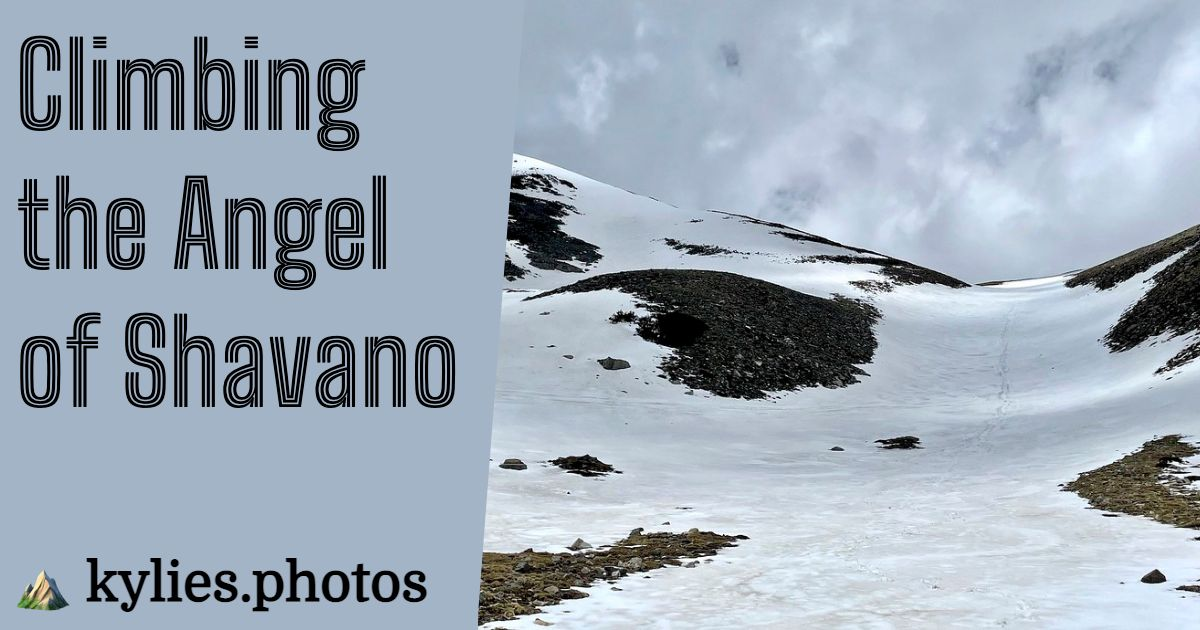
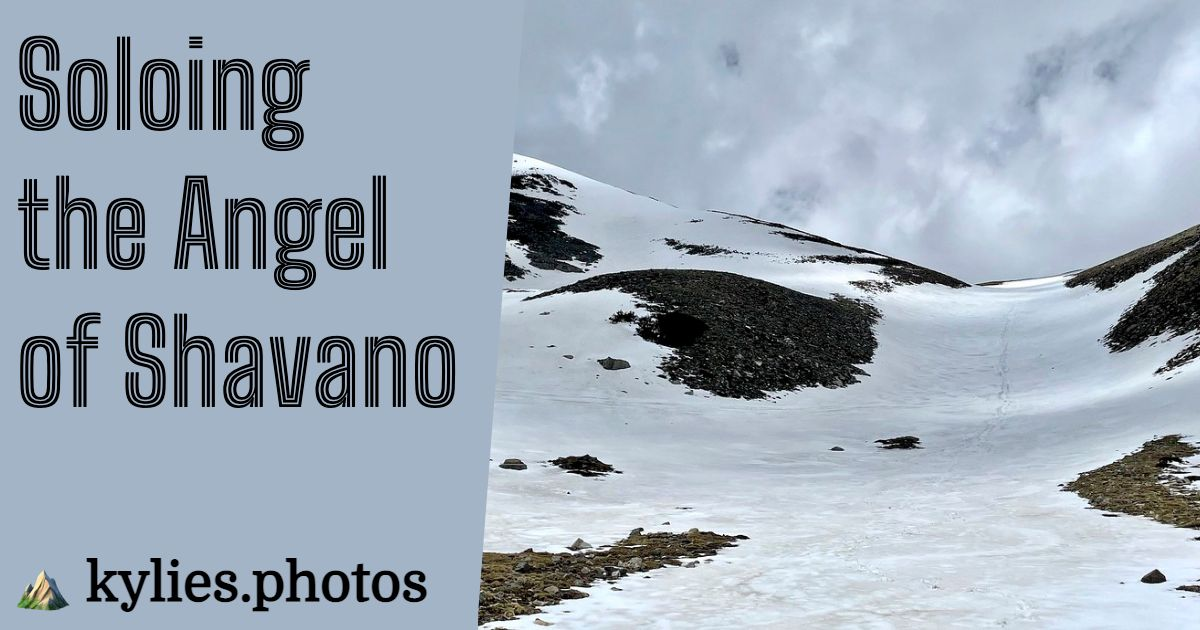
Clean up content, remove extra og-image

Changed region(s): [[0.0, 0.0603, 0.3083, 0.2413]]

diff --git a/blog/hike/solo-angel-of-shavano.md b/blog/hike/solo-angel-of-shavano.md
@@ -1,118 +1,118 @@
 ---
-title: 'Climbing the Angel of Shavano'
+title: 'Soloing the Angel of Shavano'
 date: '2022-03-09'
 previewImgUrl: 'https://live.staticflickr.com/65535/51861127645_76fa1631a8_b.jpg'
 bgColor: '#a4b4c7'
 textColor: '#000000'
 ---
 
-Spring is a notoriously transitional time, and this is especially true in Colorado. With spring comes slightly more stable snowpack and prime couloir climbing time. "Couloir" is a term of French origin that refers to the deep and steep gullies that cut up a mountain, and plenty of these lines exist on some of the most beautiful mountains in the state.
+Spring is know for being a transitional season, and this is especially true in Colorado. With spring comes a mud-riddled shoulder season, but slightly more stable snowpack and prime couloir climbing time. "Couloir" is a term of French origin that refers to the deep and steep gullies that cut up a mountain, and plenty of these lines exist on some of the most beautiful mountains in our state.
 
-While avalanche danger isn't negligible in the spring, it is significantly decreased as snow no longer accumulates on top of the cold, hard early season snow and the prolonged sun exposure stabilizes snow fields, making them less likely to slide.
+While avalanche danger isn't negligible in the spring, it is significantly decreased as snow no longer accumulates on top of the cold and hard early season snow. Additionally, the prolonged sun exposure stabilizes snow fields, making them less likely to slide.
 
-When done right, a couloir can essentially be an icy staircase for one to kick-step your way to a summit. In less stable conditions, however, the icy staircase is less reliable. This is why it's important to know _how_ to climb in addition to knowing when. Solid knowledge is a critical part of any snow activity, and this is true in couloir climbing as well. To learn more about the techniques involved, I would recommend first reading ['Mountaineering: Freedom of the Hills'](https://www.rei.com/product/128238/mountaineers-books-mountaineering-freedom-of-the-hills-9th-edition?sku=1282380001) (considered the benchmark publication for anyone looking to learn or improve their mountaineering skill technique), and then taking an in-person class with [Colorado Mountain Club](https://cmc.org/Classes/CMCClassesandSchools/TechnicalClimbingSchool.aspx).
+When done right, a couloir can be used as an icy staircase for one to use to kick-step their way to a summit. In less stable conditions, however, the icy staircase is less reliable. This is why it's important to know _how_ to climb in addition to knowing when. Solid knowledge is a critical part of any snow activity, and this is true in couloir climbing as well. To learn more about the techniques involved, I would recommend first reading ['Mountaineering: Freedom of the Hills'](https://www.rei.com/product/128238/mountaineers-books-mountaineering-freedom-of-the-hills-9th-edition?sku=1282380001) (considered the benchmark publication for anyone looking to learn or improve their mountaineering skill technique), and then taking an in-person class with [Colorado Mountain Club](https://cmc.org/Classes/CMCClassesandSchools/TechnicalClimbingSchool.aspx).
 
-While this trip report is less of a how-to on couloir climbing, I will give some advice for anyone looking to do their first couloir climb:
+While this trip report is not meant to be an introduction to couloir climbing techniques, I will give some advice for anyone looking to pursue their first couloir:
 
-1. **Start early.** Earlier than you think you need to. Conditions only deteriorate as the sun starts to hit the couloir, ideally you want to be off of your peak before noon. Early morning snow tends to be firm and consistent, but mid-morning and afternoon snow is a different, slushy story. In late spring, I've had my entire snowshoe frozen solid into a slosh of wet snow. Much like quicksand, spring snow can turn into concrete underneath the upper layers. Things can get scary quick.
-2. Learn how to self-arrest, and then **perfect your technique.** Don't stop practicing. Keeping your axe out on any uneven terrain can help you get more comfortable with the casual cane carry, and you'll always be ready to self arrest even in low-level territory.
-3. **Get comfortable with your gear.** This should be considered part of learning and perfecting the art of self-arresting; being comfortable with your snow gear is a big part of effective climbing technique. If you are spending time fumbling over your crampons or haven't figured out the best place to stash your axe so it's handy when needed, you'll find the climb a lot less enjoyable. Precious time can be eaten looking around for a specific snow tool, and you won't have time to make choices in an emergency. Having your beacon, shovel, probe, axe, helmet, and crampons all well positioned is key to a successful snow climb on any mountain.
+1. **Start early.** Earlier than you think you need to. Conditions begin to deteriorate as the sun starts to hit the couloir, so ideally you want to be off of your peak before high noon. Early morning snow tends to be firm and consistent, but mid-morning and afternoon snow is a different, slushy story. I've had my entire snowshoe frozen solid into a slosh of wet snow in April. Much like quicksand, spring snow can turn into concrete once you drop beneath the upper layers. Things can get scary quick.
+2. **Learn how to self-arrest** and then **perfect your technique.** Don't stop practicing. Keeping your axe out on any uneven terrain can help you get more comfortable with the casual cane carry. If you start doing this regularly, even on extremely low-angle slopes, you'll develop more confidence in your abilities. Confidence is key when it comes to stopping yourself from sliding down an icy slope: you want to be sure you could stop yourself in any circumstance.
+3. **Get comfortable with your gear.** This should be considered part of learning and perfecting the art of self-arresting; being comfortable with your snow gear is a big part of effective climbing technique. If you are spending time fumbling to find your crampons or haven't figured out the best place to stash your axe so it's handy when needed, you'll find the climb a lot less enjoyable overall. Precious time can be eaten looking around for a specific snow tool, and you won't have time to spare in an emergency. Having your beacon, shovel, probe, axe, helmet, and crampons all well positioned is essential to a successful ascent.
 
 ## Choosing my Route
 
-In May of 2021, I set out to pursue a low-level couloir climb solo. I had read about the Angel being a nice winter alternative to the standard route up Mount Shavano, and I was eager to get some time on my new crampons. I had pulled them out on 13ers in the Tenmile range over months prior, but hadn't really gotten to use them on a long, dedicated climb yet. The Angel of Shavano seemed like a nice opportunity to use them while still being fairly safe enough for me to solo.
+In May of 2021, I set out to pursue a low-level couloir climb solo. I had read about the Angel being a nice winter alternative to the standard route up Mount Shavano, and I was eager to get some time on my new crampons. I had pulled them out on 13ers in the Tenmile range over months prior, but hadn't really gotten to use them on a long, dedicated climb yet. The Angel of Shavano seemed like a nice opportunity to wear them again while still being safe enough for me to pursue solo.
 
 ## Getting to the Lot
 
-The drive down to the Shavano/Tabeguache trailhead in Salida was fairly uneventful. The only real drama happened when I arrived in the lot at 3:45 AM without another vehicle in sight. I hopped out of my car to walk over to the bathrooms and immediately came face-to-face with an elk. I froze, took three steps backwards and got back into my driver's seat. Terrified of the elk and whatever his next move might be, I decided to stay in my car for a little longer and wait him out. 45 minutes later, the sun began to rise and he finally left the lot, and I was released from my tin prison.
+The drive down to the Shavano/Tabeguache trailhead in Salida was fairly uneventful. The only real drama happened when I arrived in the lot at 3:45 AM without another vehicle in sight. I hopped out of my car to walk over to the bathrooms and immediately came within five feet of an elk. I froze, took three huge steps backwards, and stumbled backwards into my driver's seat. Terrified of the elk and whatever his next move might be, I decided to hang out in my car for a little longer and wait him out. 45 minutes later, the sun began to rise as he finally left the lot. I was released from my tin prison.
 
 ![The beginning of sunrise, seen from the parking lot. {798x498}](https://live.staticflickr.com/65535/51860556663_ea3daa7a54_b.jpg)
 
 ## Starting the Hike
 
-Knowing that I had a cool 3.2 miles to the summit, even with the couloir factored in, and my pace was averaging 2.2 miles an hour on recent peaks, I still felt confident going after my objective but knew in the back of my mind it would be smart to turn around if conditions appeared to already be declining when I got to the base of the Angel. I set off to check it out.
+I took a moment to consider how this delay would impact my day. Knowing that I had a cool 3.2 miles to the summit and my pace was averaging 2.2 miles an hour on recent climbs, I still felt confident going after my objective. I made the choice to continue on, telling myself I would make the choice to turn around if conditions appeared to be declining when I got to the base of the Angel, and then set off to check it out.
 
 ![Alpenglow seen against Mount Antero as I left the parking lot.](https://live.staticflickr.com/65535/51859518242_251fc54627_b.jpg)
 
-The first mile of the Angel's trail follows the standard approach. I enjoyed a beautiful sunrise in solitude, winding through golden-white aspen on a fairly level trail. Your first steep section comes right after a chance to sign the climb log. I took a moment to add my name, noting there had been no one on this peak even the day prior, before continuing along.
+The first mile of the Angel's trail follows the standard approach. I enjoyed a beautiful sunrise in solitude, winding through golden-white aspen on a fairly level trail. The first steep section comes right after a chance to sign the climb log. I took a moment to add my name, noting there had been no one on this peak even the day prior, before continuing along.
 
-As I gained some elevation on the lower trail, I found myself hopping over large, downed trees and other avalanche debris. This would only get worse as I left the heavier-trafficked approach trail.
+As I gained some elevation on the lower trail, I found myself hopping over large, downed trees, and other avalanche debris. This would only get worse as I left the heavier-trafficked standard trail.
 
 ![A downed tree with evidence of where hikers prior had to manuever over it. {547x768}](https://live.staticflickr.com/65535/51860472411_a20223240b_b.jpg)
 
 ## Navigating Avalanche Debris
 
-After about 1.2 miles of hiking along a comfortable 14er trail, I had to fork off to approach the base of the Angel. As is the case with any lesser-traveled section of trail, there wasn't a packed down trench to follow. I took a moment to strap my snowshoes to my feet and begin punching through the somehow both hard and soft snow.
+After about 1.2 miles of hiking along a comfortable 14er trail, I had to fork off to approach the base of the Angel. As is the case with any lesser-traveled section of trail, there wasn't a packed-down trench to follow. I took a moment to strap snowshoes to my feet and began punching through the somehow both hard and soft snow.
 
 ![A closer look at that punchcrust and what my snowshoes were doing to it. {576x768}](https://live.staticflickr.com/65535/51860555768_5a9885cd3f_b.jpg)
 
-Not solid enough to hold the weight of myself with my snowshoes, but not loose enough to sink me more than a foot into the snow, I opted to take my snowshoes off after a half mile of kicking through the debris into punchcrust. I stashed them at a tree, saved the waypoint to my Garmin, and continued along. While still frustrating, things were easier without those cumbersome snow floats strapped to my feet.
+Not solid enough to hold the weight of myself with my snowshoes, but not loose enough to sink me more than a foot into the snow, I opted to take my snowshoes off after a half mile of kicking through the debris into punchcrust. I stashed the shoes at a tree, saved the waypoint to my Garmin, and continued along. While still frustrating, things were easier without those cumbersome snow floats strapped to my feet.
 
 ![This where I gave up on my snowshoes, stashing them somewhere underneath a tree to the left of this image. {541x768}](https://live.staticflickr.com/65535/51861129420_10449fe23d_b.jpg)
 
 ## First Look at the Angel
 
-Maneuvering my way over heavy, downed tree trunks with sharp and spindly branches sticking every which way off of them, I slowly but surely made my way towards the base of the Angel. Its angle appears so gentle as you approach that it's easy to underestimate the slope.
+Maneuvering my way over heavy, downed tree trunks with sharp and spindly branches sticking in every direction off of them, I slowly but surely made my way towards the base of the Angel. Its angle appears so gentle as you approach that it is easy to underestimate the slope.
 
 ![My first view of the Angel. {768x503}](https://live.staticflickr.com/65535/51861128760_5fe5f4d843_b.jpg)
 
-While this is by no means an intense couloir climb and more of a casual couloir stroll, it's important to have your gear out and at the ready at the right time.
+While this is by all means a casual climb and not very intense, it's important to have your gear out and at the ready at the right time.
 
-![Rock hopping. {576x768}](https://live.staticflickr.com/65535/51860808484_82f50043b5_b.jpg)
+![Rock hopping before I commit to my crampons. {576x768}](https://live.staticflickr.com/65535/51860808484_82f50043b5_b.jpg)
 
-As I hopped over the last patch visible rock before beginning the steeper section of the Angel, I paused to put my crampons on. It looked like this would be the last spot I would be able to comfortably sit. After triple checking that I had secured them correctly, I continued up the peak.
+As I hopped over the last patch of rock visible before the Angel's angle would increase, I paused to put my crampons on. It looked like this would be the last area I might be able to comfortably sit. After triple checking that I had secured them correctly, I continued up the peak.
 
-## The Couloir Climb
+## Gaining the Couloir
 
-Climbing this little couloir was a lot of fun. Finally getting a feel for that kick-step pattern, feeling out how much depth you actually have beneath you, and then making sure you didn't kick in too deep. You get into a nice flow state focusing on these smaller things. Again, the Angel is by no means an intense climb (I'm confident some more experienced mountaineers wouldn't even consider this a "real" couloir), but it's a nice way to get some practice in steeper terrain.
+Climbing this little couloir was a lot of fun. I was finally getting a feel for that kick-step pattern, repeatedly feeling out how much depth I actually had beneath me, and then making sure I didn't kick in too deep. I got into a nice flow state focusing on these smaller movements. Again, the Angel is by no means an intense climb (I'm confident some more experienced mountaineers wouldn't even consider this a "real" couloir), but it's a nice way to get some practice in steeper terrain.
 
-![Gaining the couloir. {576x768}](https://live.staticflickr.com/65535/51860808854_8a1266be76_b.jpg)
+![Looking back down to the base of the Angel after gaining some elevation. {576x768}](https://live.staticflickr.com/65535/51860808854_8a1266be76_b.jpg)
 
-It's easy to make quick work of a slope like this when you've been rearing to go since the start of your morning. I found myself cruising up this hill and was surprised when I turned my head and saw the main trail meeting with my path.
+It's easy to make quick work of a slope like this when you've had energy to burn since the start of your morning. I found myself cruising up this hill and was surprised when I turned my head and saw the main trail meeting with my path.
 
 ![Standard trail visible to the left. {768x553}](https://live.staticflickr.com/65535/51860556693_10c454bb6b_b.jpg)
 
-At this point I was making quick time of the peak. I chose to take a moment to really appreciate the views from this saddle and maybe try to spot any fellow climbers below. To my surprise, I could see no movement in the trees below or on the trail leading up to where I stood. As far as I could tell, no one else was out there with me. A true surprise given how beautiful and bluebird this weather had turned out.
+At this point I was making quick time of the peak. I chose to take a moment and really appreciate the views from this saddle, maybe try to spot any fellow climbers below. To my surprise I could see no movement in the trees below or on the trail leading up to where I stood. As far as I could tell, no one else was out there with me. A true surprise given how beautiful and clear this weather had turned out.
 
 ![Looking over to the 13,630' peak that shares a saddle with Shavano, "Esprit Point". {768x330}](https://live.staticflickr.com/65535/51859518477_7cafcf8987_b.jpg)
 
-I took another look around and began up the next high point I could see. It looked like things flattened out another 400 or so feet above me, so I decided to put my head down and go after that next highest point.
+I took another look around and began my way up the next highest point I could see. It looked like things flattened out another 400 or so feet above, so I decided to put my head down and go after the seemingly-near objective.
 
 ![Almost there! {768x492}](https://live.staticflickr.com/65535/51860474496_fe5cb188e1_b.jpg)
 
-To my disbelief, this was the final summit push. I was technically cutting the traditional trail once again by hoofing it directly up the slope instead of switching back and forth, but it felt both easier and safer to go straight up in this snow. There were solid rocks for me to orient myself with, and the patches of snow in between were neither deep nor loose. I worked to make quick time of this final push.
+To my disbelief, this was the final summit push. I was technically cutting the traditional trail once again by hoofing it directly up the slope instead of switching back and forth, but it felt both easier and safer to go straight up in the snow. There were solid rocks for me to orient myself with, and the patches of snow in between were neither deep nor loose. It was smooth sailing from here.
 
 ## On the Summit of Mount Shavano
 
-Suddenly, the terrain below my feet flattened out and the world around me opened up until I could only see other 14,000+' peaks surrounding me. It was an incredible feeling having only been moving for a couple of hours at this point.
+Suddenly, the terrain below my feet flattened out and the world around me opened up. I could only see other 14,000+' peaks at eye level around me. It was an incredible feeling having only been moving for a couple of hours up to this point.
 
 ![On the summit of Mount Shavano, looking at the traverse over to Tabeguache Peak. {768x289}](https://live.staticflickr.com/65535/51861128305_d6c9f6ac6b_b.jpg)
 
-I took the time to consider that Tabeguache traverse and decided against it. There wasn't a fresh track for me to follow, and I had already began my day later than originally planned. Connecting that peak might take me another hour each way if I'm quick. It wouldn't be smart, I decided, to continue on.
+I took some time to consider the Tabeguache traverse and finally decided against it. There wasn't a fresh track for me to follow, and I had already began my day later than originally planned. Connecting that peak might take me another hour each way if I'm quick. It wouldn't be smart, I decided, to continue on.
 
 ## Descending Off the Peak
 
 ![Dropping off of the summit of Shavano. {768x552}](https://live.staticflickr.com/65535/51860808999_30cde4ba36_b.jpg)
 
-After taking a few extra moments to soak in that summit feeling, I began to descend a well-marked path that was a little different than the one I had ascended. This one did snake down the summit along a couple of switchbacks, and I passed a CFI sign identifying the summit area after dropping off the initial prominence.
+After taking a few extra moments to soak in that summit feeling, I began to descend a well-marked path just a few feet off of the one I had ascended. This trail snaked down the summit along a couple of switchbacks. I passed a Colorado Fourteener Initiative (CFI) sign identifying the summit "area" after dropping off the initial prominence, immediately validating my chosen descent route.
 
-![A sign placed by the Colorado Fourteener's Initiative. {576x768}](https://live.staticflickr.com/65535/51861129155_50cc54f037_b.jpg)
+![A sign placed by CFI. {576x768}](https://live.staticflickr.com/65535/51861129155_50cc54f037_b.jpg)
 
 Once I was off of the steepest section of rocky terrain and back into the more powdery snow, I glissaded whenever I could.
 
 ![Some of my less exciting glissade tracks off of the summit block.](https://live.staticflickr.com/65535/51861128735_0b889c4744_b.jpg)
 
-Meeting that saddle where the main trail begins to snake back down a slope, I split back towards the couloir and continued to glissade, this time with my axe at the ready and no crampons on my feet. This was where I actually saw some speed.
+Meeting that saddle where the main trail takes a turn back down a tree-covered slope, I split back towards the couloir and continued to glissade, this time with my axe at the ready and no crampons on my feet. This was where I actually caught some speed.
 
 ![My glissade tracks, from up close and far away. {768x590}](https://live.staticflickr.com/65535/51860474241_8700957402_b.jpg)
 
-Once at the bottom of the steepest section of the Angel, I turned around to assess my glissade track. To my surprise (for the third time today), storm clouds had begun to roll in. My decision to bail on the traverse was immediately validated. Even with the quick glissade down and patchy stretches off of the summit, I hadn't cut off enough time to be safely off the peak by the time those clouds released what they were holding.
+Once at the bottom of the Angel, I turned around to assess my glissade track. To my surprise (for the third time today), storm clouds had begun to roll in. This proved my decision to bail on the traverse was a good one. Even with the quick glissade down and patchy stretches off of the summit, I hadn't cut off enough time to be safely off the peak by the time those clouds released what they were holding.
 
 ![Looking back at the couloir just as storm clouds roll in. {798x518}](https://live.staticflickr.com/65535/51861127645_76fa1631a8_b.jpg)
 
 ## Finishing My Day
 
-After spending a cool half hour stumbling back over my tracks and swearing at my GPX waypoint for not being more obvious to the naked eye, I _finally_ located my snowshoes and got fully below treeline. Getting back on the hard-packed main trail made the final section of descent all that much easier, and I got to my car just in time for the rain to start.
+After spending a cool half hour stumbling back over my tracks and swearing at my GPX waypoint for not being more obvious to the naked eye, I _finally_ located my snowshoes and got myself back below treeline. Returning to the hard-packed main trail made the final section of descent all that much easier, and I got to my car just in time for the rain to start. Another excellent day in the alpine.
 
 ![Some deer watching me run out of the wilderness. {798x496}](https://live.staticflickr.com/65535/51860473936_6ea2229253_b.jpg)
 
